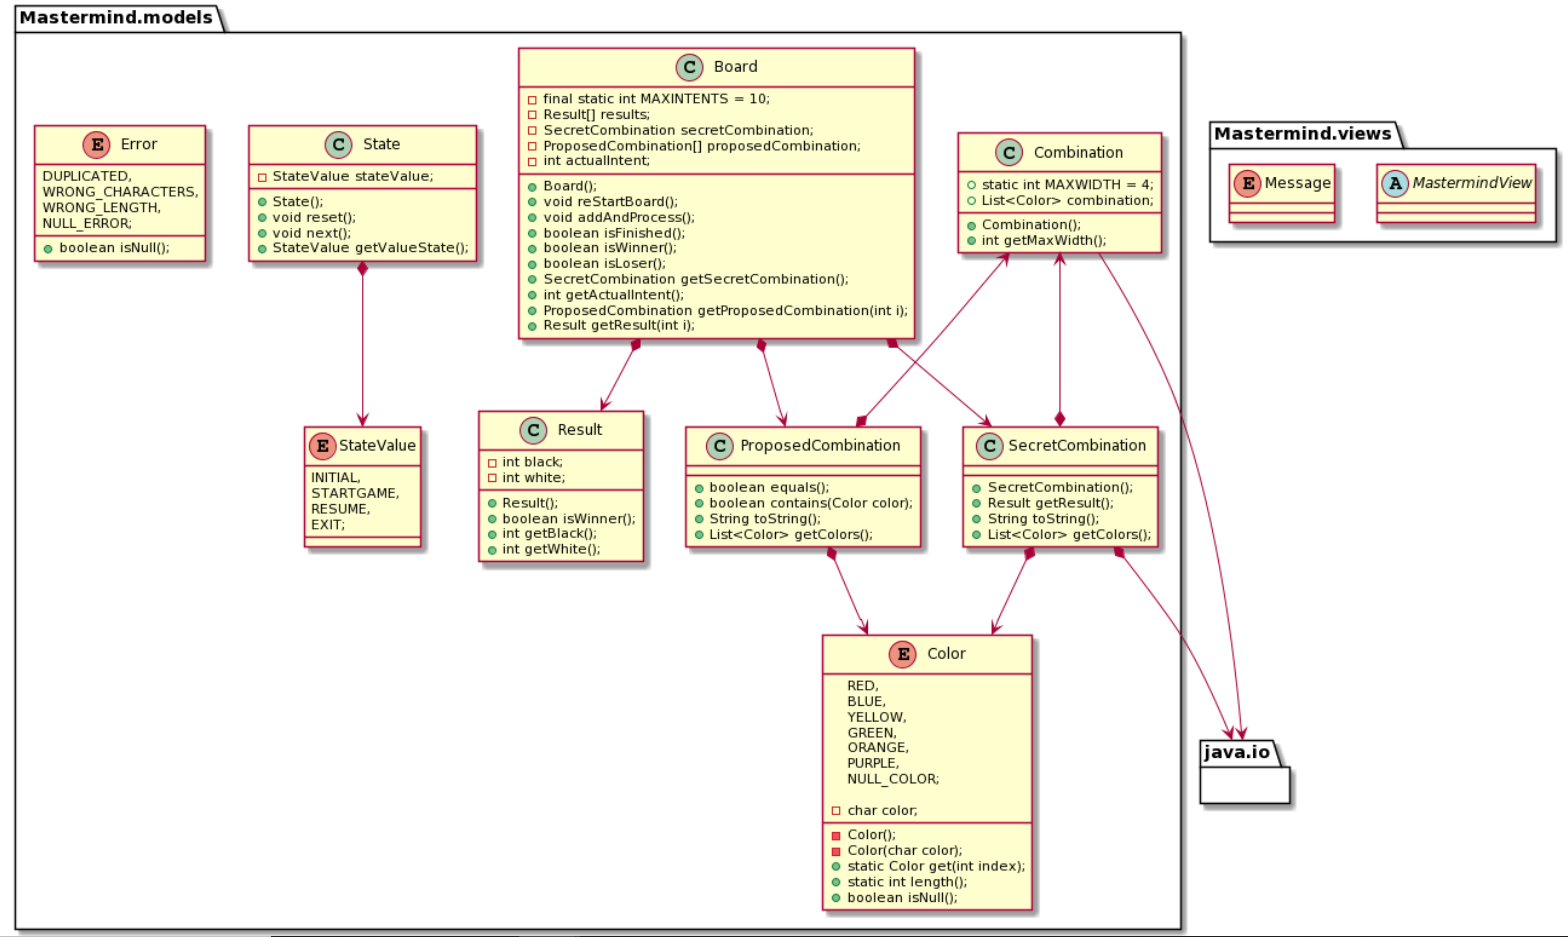
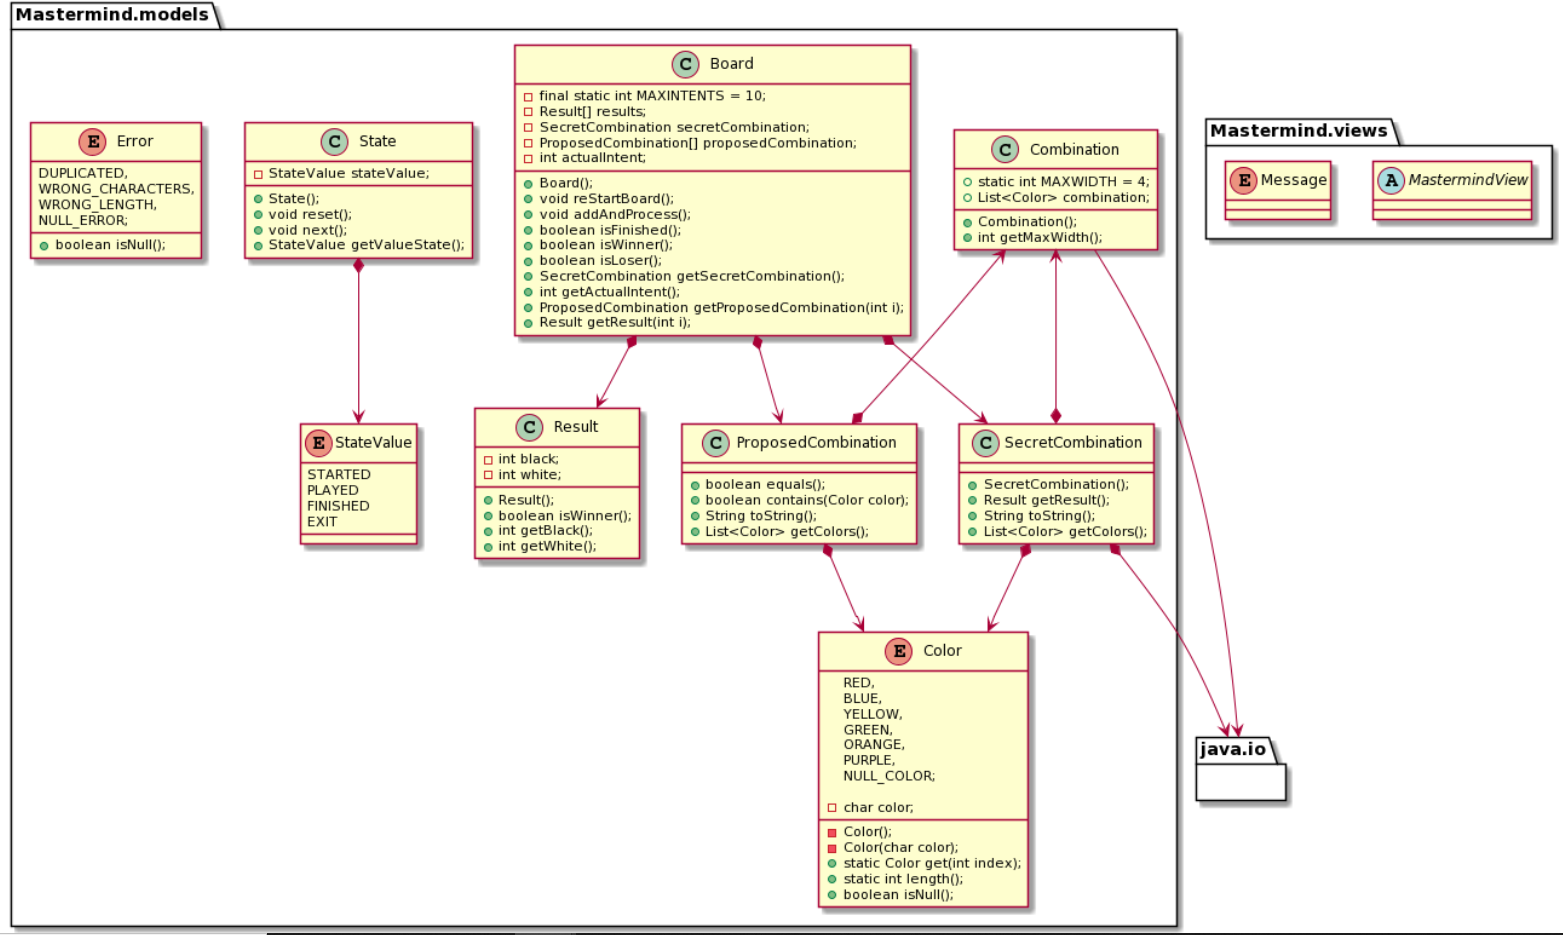
mvp.pm.withDoubleDispatching  and  mvp.pm.withoutDoubleDispatching
Changed the states of StatesValue.

Changed region(s): [[0.0, 0.0, 1.0, 1.0], [0.7678, 0.1241, 1.0, 0.2791], [0.7678, 0.7754, 0.8292, 0.8684]]

diff --git a/Mastermind/src/main/java/Mastermind/Mastermind/controllers/MainController.java b/Mastermind/src/main/java/Mastermind/Mastermind/controllers/MainController.java
@@ -17,9 +17,9 @@ public class MainController {
 		this.board = new Board();
 		this.state = new State();
 		this.controllers = new HashMap<StateValue, Controller>();
-	    this.controllers.put(StateValue.INITIAL, new StartController(this.board, this.state));
-	    this.controllers.put(StateValue.STARTGAME, new BoardController(this.board, this.state));
-	    this.controllers.put(StateValue.RESUME, new ResumeController(this.board, this.state));
+	    this.controllers.put(StateValue.STARTED, new StartController(this.board, this.state));
+	    this.controllers.put(StateValue.PLAYED, new BoardController(this.board, this.state));
+	    this.controllers.put(StateValue.FINISHED, new ResumeController(this.board, this.state));
 	    this.controllers.put(StateValue.EXIT, null);
 	}
 	

diff --git a/Mastermind/src/main/java/Mastermind/Mastermind/models/State.java b/Mastermind/src/main/java/Mastermind/Mastermind/models/State.java
@@ -9,7 +9,7 @@ public class State {
   }
 
   public void reset() {
-    this.stateValue = StateValue.INITIAL;
+    this.stateValue = StateValue.STARTED;
   }
 
   public void next() {

diff --git a/Mastermind/src/main/java/Mastermind/Mastermind/models/StateValue.java b/Mastermind/src/main/java/Mastermind/Mastermind/models/StateValue.java
@@ -1,9 +1,9 @@
 package Mastermind.Mastermind.models;
 
 public enum StateValue {
-  INITIAL,
-  STARTGAME,
-  RESUME,
+  STARTED,
+  PLAYED,
+  FINISHED,
   EXIT;
   
 }
